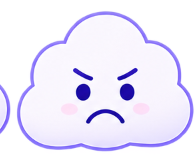
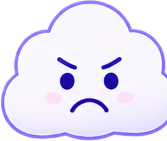
feat: enlarge clouds cleanly without any borders and shift arrow forward for breathing space on its left

diff --git a/components/HeroSectionExact.module.css b/components/HeroSectionExact.module.css
@@ -214,7 +214,7 @@
   background: transparent;
   border: 1.5px solid transparent;
   border-radius: 22px;
-  padding: 6px 4px 8px 4px;
+  padding: 6px 4px 6px 4px;
   cursor: pointer;
   display: flex;
   flex-direction: column;
@@ -224,7 +224,7 @@
   user-select: none;
   flex: 1;
   max-width: 180px;
-  min-height: 108px;
+  min-height: 124px;
   justify-content: space-between;
 }
 
@@ -235,7 +235,7 @@
   justify-content: center;
   align-items: center;
   width: 100%;
-  height: 75px;
+  height: 92px;
   overflow: visible;
 }
 
@@ -243,7 +243,7 @@
 .cloudSvgWrap img {
   width: auto;
   height: auto;
-  max-height: 72px;
+  max-height: 90px;
   max-width: 100%;
   object-fit: contain;
 }
@@ -259,7 +259,7 @@
 }
 
 .cloudName {
-  font-size: 15px;
+  font-size: 16px;
   font-weight: 800;
   color: #161C52;
   transition: color 0.2s ease;
@@ -270,7 +270,7 @@
   border: 1.5px solid transparent !important;
   border-radius: 0 !important;
   box-shadow: none !important;
-  padding: 6px 4px 8px 4px !important;
+  padding: 6px 4px 6px 4px !important;
 }
 
 .cloudBtnActive .cloudSvgWrap {
@@ -461,7 +461,7 @@
   position: absolute;
   left: calc(150px + ((100% - 150px) * (1.4 / 2.65)));
   top: 47%;
-  transform: translate(-70%, -50%);
+  transform: translate(-45%, -50%);
   z-index: 10;
   background: transparent;
   border: none;
